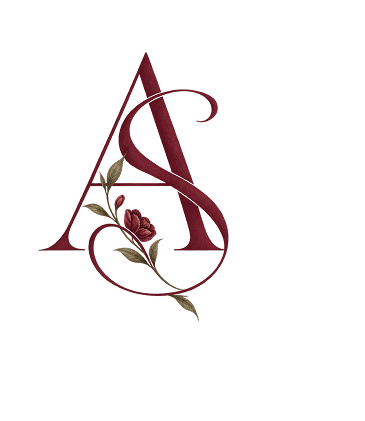
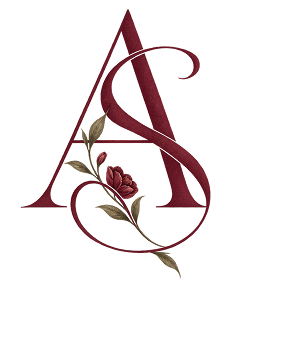
Reposition florals as side accents and enlarge/center the monogram
Crop the monogram PNG's uneven baked-in padding so it centers correctly,
and move the floral art beside the intro/date/countdown text instead of
full-width strips, matching the source design more closely.

Changed region(s): [[0.0848, 0.0293, 0.7633, 0.8211]]

diff --git a/client/src/Invitation.jsx b/client/src/Invitation.jsx
@@ -93,22 +93,20 @@ export default function Invitation() {
 
         {/* Intro line */}
         <Reveal as="section" className="intro-section">
-          <img className="floral-corner float" src="/assets/floral-corner.png" alt="" aria-hidden="true" />
+          <Divider />
+          <img className="floral-corner-left float" src="/assets/floral-corner.png" alt="" aria-hidden="true" />
           <p className="intro-text">
             A NEW CHAPTER BEGINS...
-            <br />
-            AND WE WOULD BE HONORED TO HAVE YOU WITH US
-            <br />
+            AND WE WOULD BE HONORED
+            TO HAVE YOU WITH US
             ON OUR SPECIAL DAY.
           </p>
           <Divider />
         </Reveal>
 
-        {/* Floral divider before date */}
-        <Reveal as="img" className="art-full" src="/assets/floral-divider.png" alt="" aria-hidden="true" />
-
         {/* Date */}
         <Reveal as="section" className="date-hero">
+          <img className="floral-side-right float" src="/assets/floral-divider.png" alt="" aria-hidden="true" />
           <span className="date-day">31</span>
           <span className="date-month">AUG</span>
         </Reveal>
@@ -133,6 +131,7 @@ export default function Invitation() {
 
         {/* Countdown (live) */}
         <Reveal as="section" className="countdown-section">
+          <img className="floral-side-right float" src="/assets/floral-corner.png" alt="" aria-hidden="true" />
           <h3 className="section-title">Time Left Until Our Wedding</h3>
           <div className="countdown-grid">
             <div className="countdown-cell">

diff --git a/client/src/Invitation.css b/client/src/Invitation.css
@@ -103,7 +103,7 @@ section {
 }
 
 .monogram-img {
-  width: 210px;
+  width: 260px;
   margin: 0 auto;
   display: block;
 }
@@ -143,12 +143,21 @@ section {
   padding-top: 32px;
 }
 
-.floral-corner {
+.floral-corner-left {
   position: absolute;
-  top: 4px;
-  right: 8px;
-  width: 90px;
+  top: -6px;
+  left: -4px;
+  width: 120px;
   height: auto;
+}
+
+.floral-side-right {
+  position: absolute;
+  top: -10px;
+  right: -14px;
+  width: 150px;
+  height: auto;
+  z-index: 0;
 }
 
 .intro-text {
@@ -169,6 +178,7 @@ section {
 
 /* Date */
 .date-hero {
+  position: relative;
   display: flex;
   flex-direction: column;
   align-items: center;
@@ -239,6 +249,7 @@ section {
 }
 
 .countdown-section {
+  position: relative;
   padding-top: 20px;
 }
 
